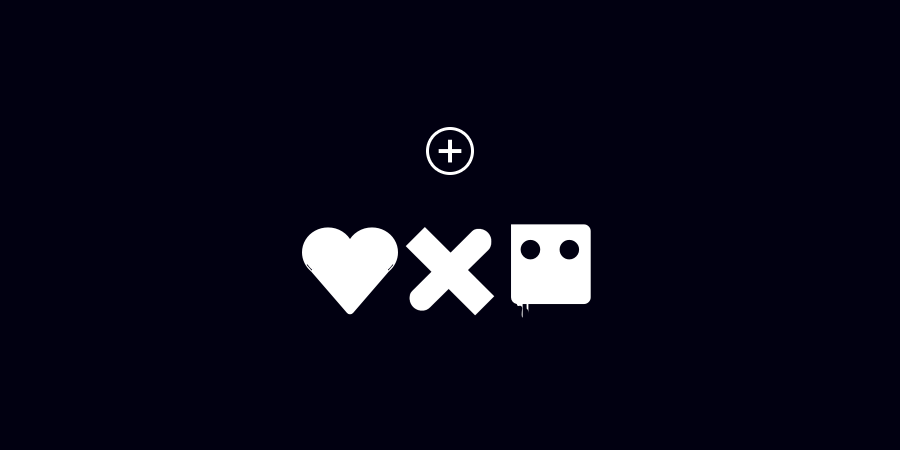
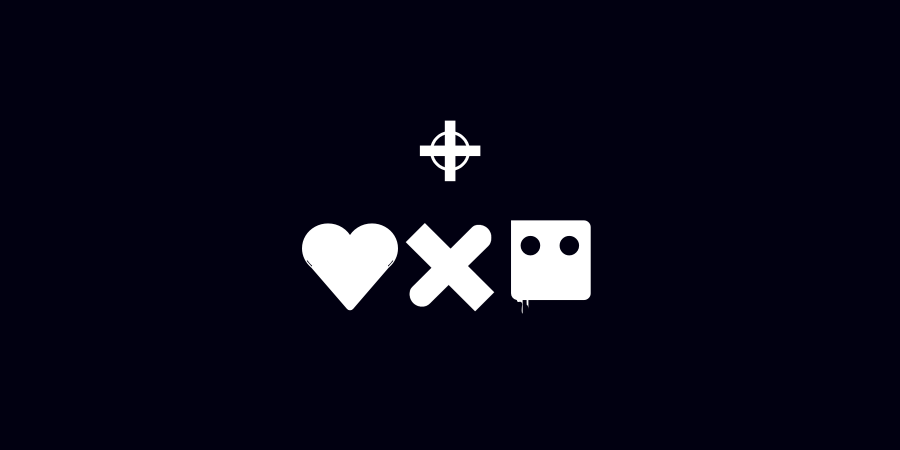
update ld+r handle appearance, update thumbnail image

diff --git a/components/pages/ldar/index.tsx b/components/pages/ldar/index.tsx
@@ -41,9 +41,7 @@ export const LDaR = () => {
     <>
       <GlobalStyle />
       <Container>
-        <Handle animate={controls} onTap={pullHandleSequence}>
-          +
-        </Handle>
+        <Handle animate={controls} onTap={pullHandleSequence} />
 
         <SlotWindow>
           {state.characterGroups.map((characters, i) => (
@@ -79,21 +77,27 @@ const SlotWindow = styled.div`
 `;
 
 const Handle = styled(motion.button)`
-  display: flex;
-  align-items: center;
-  justify-content: center;
+  position: relative;
   background: transparent;
   color: white;
   border-radius: 50%;
-  font-family: Arial, sans-serif;
-  font-size: 3rem;
-  padding-top: 2px;
   cursor: pointer;
   outline: 0;
   border: 3px solid white;
-  width: 48px;
-  height: 48px;
+  width: 40px;
+  height: 40px;
   margin-bottom: 48px;
+
+  :after {
+    content: '+';
+    position: absolute;
+    top: 50%;
+    left: 50%;
+    transform: translate3d(-50%, -50%, 0);
+    font-family: Arial, sans-serif;
+    font-size: 8rem;
+    padding-top: 2px;
+  }
 `;
 
 const FontCredit = styled.a`
